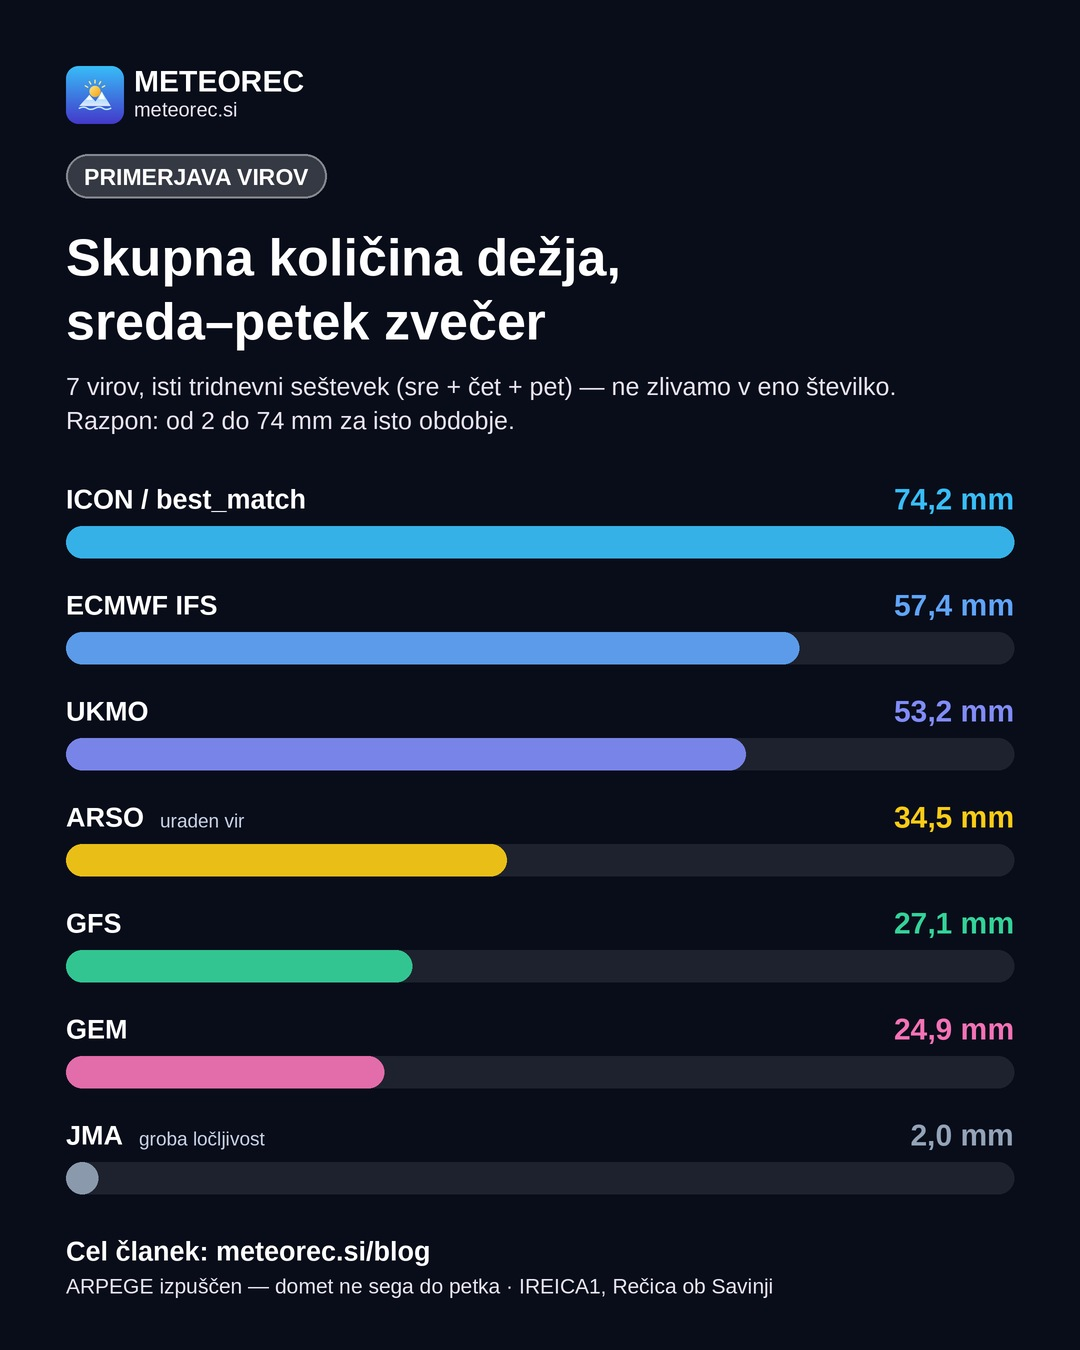
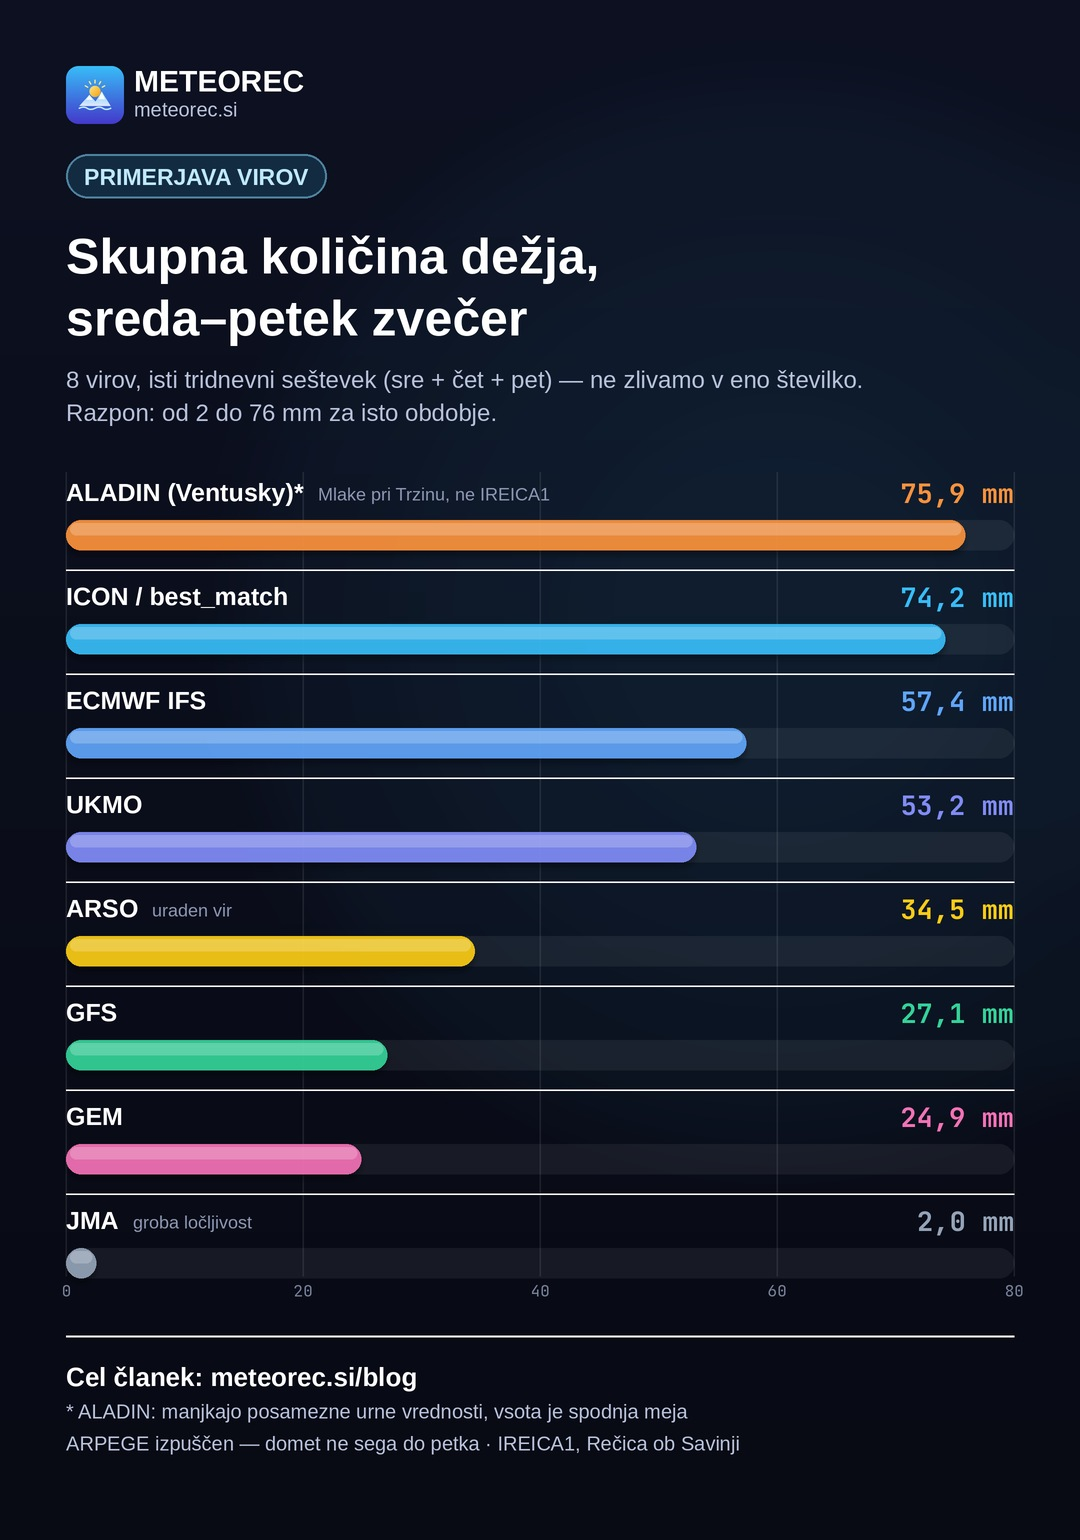
Dodaj ALADIN v primerjavo padavin in razsiri clanek na 8 virov
ALADIN (Ventusky, lokacija Mlake pri Trzinu, ne IREICA1 -- Ventusky ne
ponuja te postaje) doda 8. vrstico primerjavi; jasno oznaceno, da gre za
drugo lokacijo in da manjkajo posamezne urne vrednosti (vsota je spodnja
meja). Clanek zdaj v sekciji 03 poleg obstojece cetrtkove tabele (4 vire)
doda se tridnevni (sre+cet+pet) sestevek za vseh 8 virov.

Kartica je graficno dodelana: mm-skala z mrezo, JetBrains Mono za
stevilke (isto pisavo uporabljajo Chart.js grafi na strani), rahel sij,
tanke locnice med vrsticami, sijoc rob na stolpcih.

seo_audit.py in geo_audit.py oba javita 0 napak.

Claude-Session: https://claude.ai/code/session_01QvoY2hgseD4fkoMvwferAj

Changed region(s): [[0.0611, 0.0311, 0.9472, 0.9644], [0.6722, 0.2178, 0.7944, 0.2489], [0.5806, 0.2178, 0.6417, 0.2489]]

diff --git a/blog/poslabsanje-vremena-sredi-tedna-v-sredo-zvecer-dez-v-cetrtek-0907.html b/blog/poslabsanje-vremena-sredi-tedna-v-sredo-zvecer-dez-v-cetrtek-0907.html
@@ -169,6 +169,22 @@ height="0" width="0" style="display:none;visibility:hidden"></iframe></noscript>
     </div>
     <p>Razlika med najnižjo oceno količine padavin (GFS, 17,1 mm) in najvišjo (ICON, 62,3 mm) je več kot trikratna. Vsi štirje viri pa se strinjajo glede občutne ohladitve: v četrtek bo najvišja dnevna temperatura med 14 in 20 °C, torej dobrih 10 do 17 stopinj nižja od torkovega vrha.</p>
     <p>Postaja IREICA1 je ta mesec doslej namerila 9,9 mm dežja. Če se uresniči najbolj mokra ocena, bi samo v četrtek padlo več kot šestkrat toliko – razlog več, da v naslednjih dneh spremljamo tudi <a href="/vodostaj-savinje/" style="color:var(--blue)">vodostaj Savinje</a>.</p>
+    <p>Če sliko razširimo na vseh osem virov, ki jih spremljamo ta teden, in namesto enega dne pogledamo celoten tridnevni seštevek – sreda, četrtek in petek skupaj – se razpon še poveča:</p>
+    <div class="table-scroll">
+      <table class="stats">
+        <tr><th>Vir</th><th>Sreda–petek skupaj</th></tr>
+        <tr><td>ALADIN (Ventusky)*</td><td>75,9 mm</td></tr>
+        <tr><td>ICON / best_match</td><td>74,2 mm</td></tr>
+        <tr><td>ECMWF IFS</td><td>57,4 mm</td></tr>
+        <tr><td>UKMO</td><td>53,2 mm</td></tr>
+        <tr><td>ARSO (Ljubno ob Savinji)</td><td>34,5 mm</td></tr>
+        <tr><td>GFS</td><td>27,1 mm</td></tr>
+        <tr><td>GEM</td><td>24,9 mm</td></tr>
+        <tr><td>JMA</td><td>2,0 mm</td></tr>
+      </table>
+    </div>
+    <p style="color:var(--muted);font-size:.85rem">* ALADIN je za Mlake pri Trzinu (osrednja Slovenija), ne za Rečico, in mu manjkajo posamezne urne vrednosti – vsota je zato spodnja meja, ne natančna številka. ARPEGE (Météo-France) je izpuščen, ker njegov domet ne sega do petka.</p>
+    <p>Od najbolj skromne ocene (JMA, 2 mm – ta japonski globalni model ima nad Evropo grobo ločljivost in manjše padavinske sisteme pogosto zgreši) do najbolj namočene (ALADIN, skoraj 76 mm) je razlika več kot 35-kratna. Enotni so viri predvsem pri smeri: dež pride, ohladitev pride – koliko dežja natančno, bo jasno šele, ko bo dejansko padel.</p>
 
     <span class="section-label">04 — petek in konec tedna</span>
     <h2 id="petek-in-konec-tedna">Petek ostaja hladen in vlažen, konec tedna počasno okrevanje</h2>
